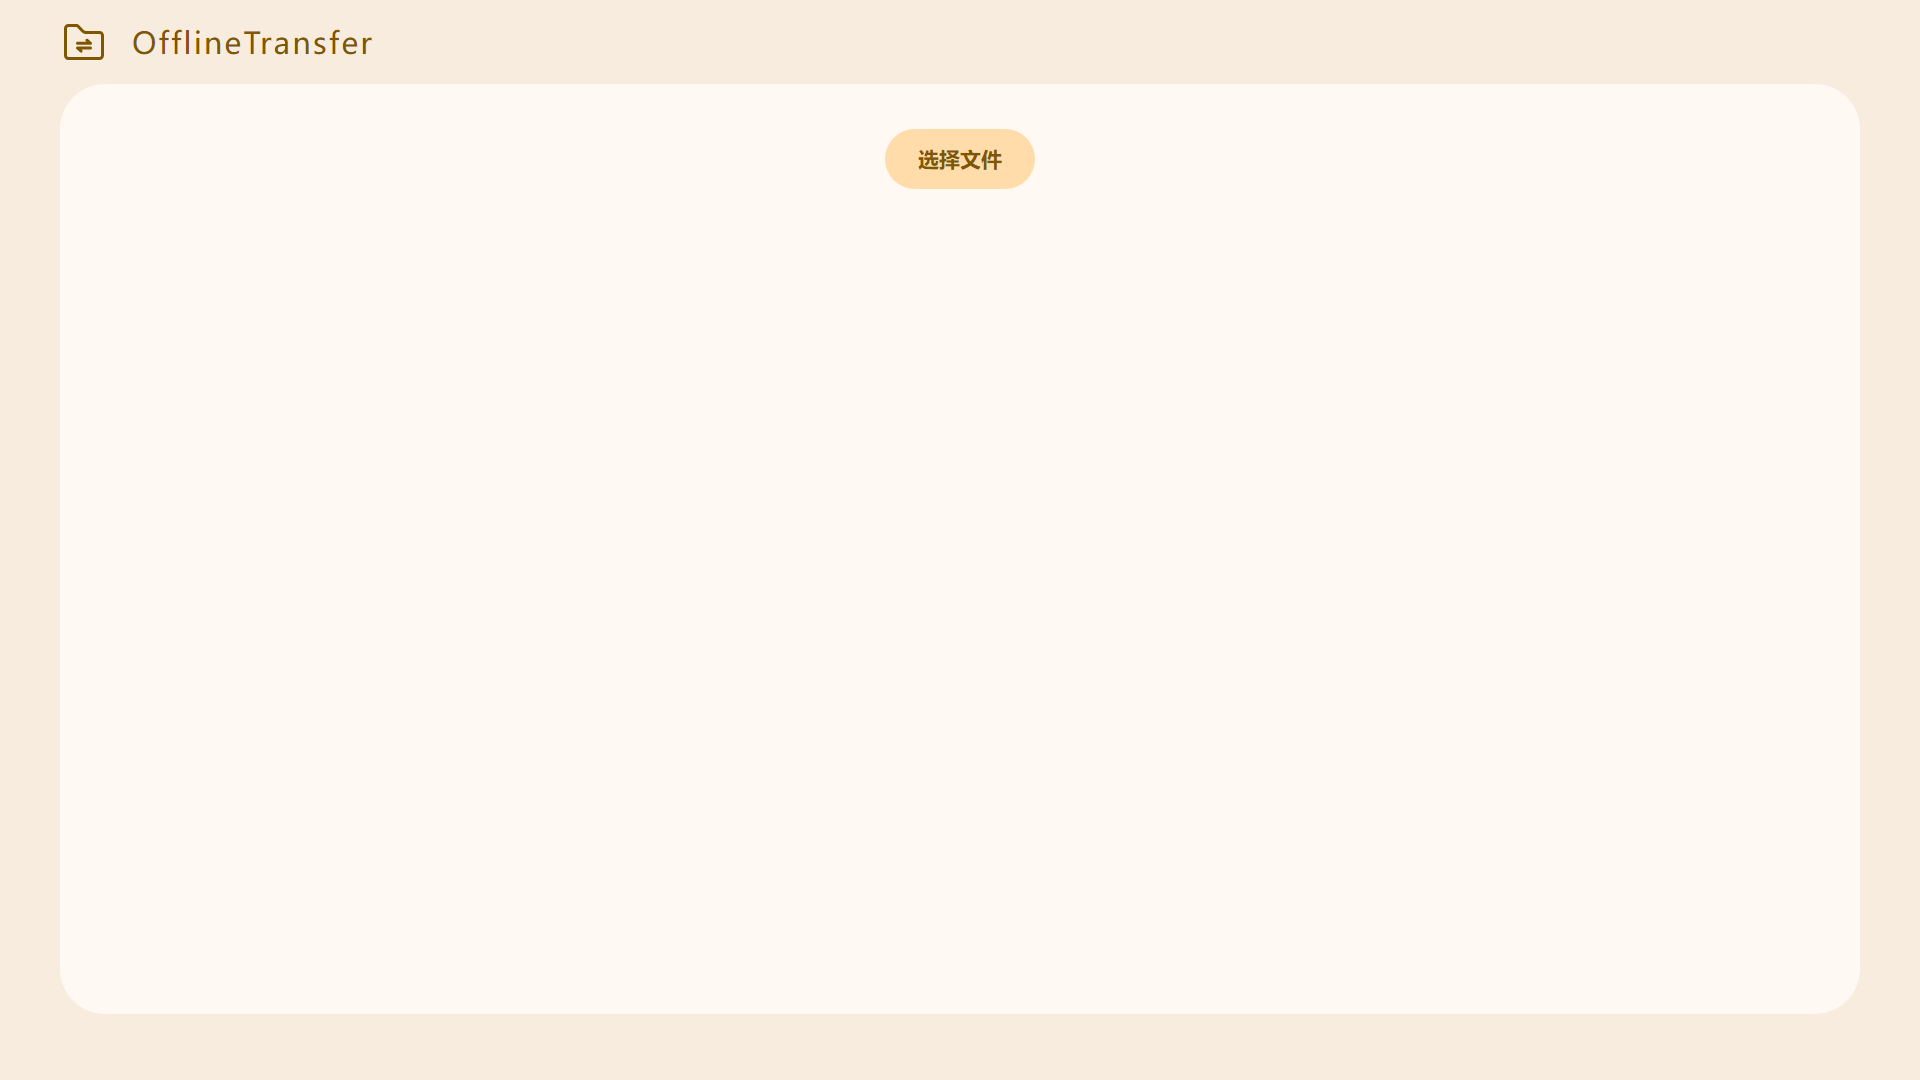
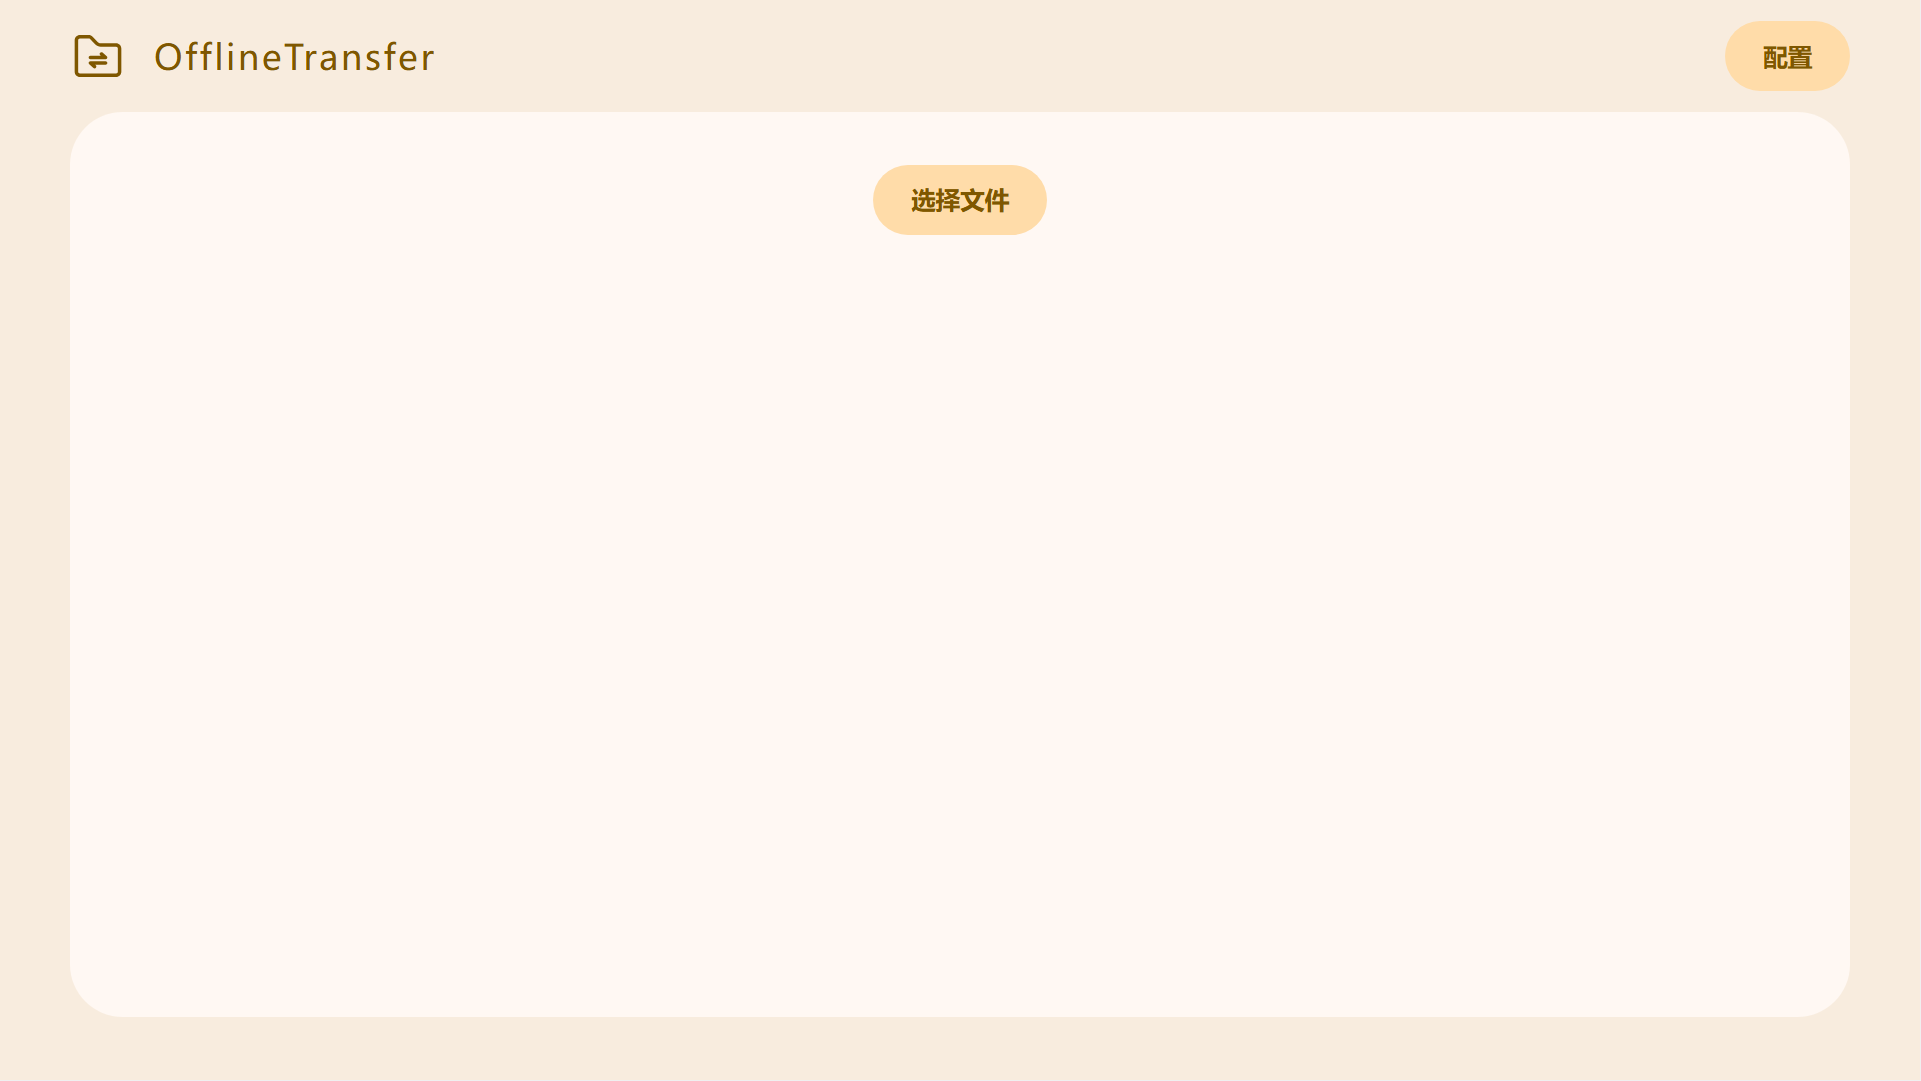
feat: 添加二维码数据大小配置功能

Changed region(s): [[0.4375, 0.1222, 0.5625, 0.2444], [0.875, 0.0, 0.9688, 0.0917], [0.0312, 0.0306, 0.2188, 0.0917]]

diff --git a/sender/css/index.css b/sender/css/index.css
@@ -13,9 +13,13 @@
     user-select: none
 }
 
+::-webkit-scrollbar{
+    display: none;
+}
+
 body {
     background-color: #f8ecde;
-    padding: 0 40px
+    padding: 0 40px 40px;
 }
 
 header {
@@ -33,17 +37,17 @@ header p {
     text-decoration: none
 }
 
+header button {
+    margin-left: auto;
+}
+
 main {
     display: flex;
     flex-direction: column;
-    height: calc(100vh - 100px);
+    min-height: calc(100vh - 100px);
     background-color: #fff8f3;
     border-radius: 30px;
     padding: 20px
-}
-
-footer {
-    height: 44px
 }
 
 .ipt_box {
@@ -88,7 +92,8 @@ button:active {
     border-radius: 20px
 }
 
-.file_info, .file_info b {
+.file_info,
+.file_info b {
     color: #7f5700
 }
 
@@ -112,7 +117,8 @@ button:active {
     flex: 1
 }
 
-.control_box, .result_box {
+.control_box,
+.result_box {
     align-items: center;
     justify-content: center
 }
@@ -121,6 +127,7 @@ button:active {
     display: flex;
     display: none;
     gap: 16px;
+    margin-top: 20px;
     transition: all .2s
 }
 
@@ -138,4 +145,65 @@ button:active {
 
 .control_box .runder {
     display: none
+}
+
+dialog#config {
+    width: 400px;
+    margin: auto;
+    padding: 20px;
+    border-radius: 28px;
+    background: #fff8f3;
+    outline: 0;
+    border: 0;
+}
+
+#config .title {
+    text-align: center;
+    font-size: 20px;
+    margin-bottom: 20px;
+    color: #7f5700;
+}
+
+.config_box .item {
+    display: flex;
+    align-items: center;
+    justify-content: space-between;
+    gap: 10px;
+    margin-bottom: 10px;
+}
+
+.config_box .item .lable {
+    width: 70px;
+    font-size: 16px;
+    color: #7f5700;
+    line-height: 1.5;
+}
+
+.config_box .item select,
+.config_box .item input {
+    flex: 1;
+    height: 40px;
+    border: 0;
+    outline: 0;
+    background: #ffdca9;
+    border-radius: 20px;
+    padding: 0 20px;
+    line-height: 40px;
+    color: #7f5700;
+    font-size: 16px;
+    transition: all .2s;
+    letter-spacing: .1em;
+}
+
+input[type="number"]::-webkit-outer-spin-button,
+input[type="number"]::-webkit-inner-spin-button {
+    -webkit-appearance: none;
+    margin: 0;
+}
+
+.config_foot {
+    display: flex;
+    justify-content: center;
+    gap: 20px;
+    margin-top: 20px;
 }

diff --git a/sender/js/index.js b/sender/js/index.js
@@ -10,8 +10,16 @@ let controlBox_P_Rander = document.querySelector(".control_box p.runder");
 let prevBtn = document.querySelector(".prev");
 let nextBtn = document.querySelector(".next");
 
+let configBtn = document.querySelector("header .config");
+let configDialog = document.querySelector("dialog#config");
+let cancelBtn = document.querySelector("dialog#config .cancel");
+let saveBtn = document.querySelector("dialog#config .save");
+let elSize = document.querySelector(".config_box .item input#size");
+
+
 let QrIndex = 0;
 let AllIndex = 0;
+let QrCodeDataSize = localStorage.getItem('QrCodeDataSize') ? localStorage.getItem('QrCodeDataSize') : 1300;
 
 
 uoloadBtn.addEventListener("click", () => {
@@ -38,7 +46,8 @@ transBtn.addEventListener("click", () => {
     reader.onload = function () {
         let data = `${JSON.stringify({ name: file.name, type: file.type })}|` + reader.result;
         controlBox.style.display = "flex";
-        let dataArr = data.match(/.{1,1300}/g);
+        let reg = `.{1,${QrCodeDataSize}}`
+        let dataArr = data.match(new RegExp(reg, "g"));
         QrIndex = 0;
         AllIndex = dataArr.length;
         ChangeView();
@@ -102,10 +111,30 @@ window.addEventListener("keydown", (e) => {
     }
 })
 
+configBtn.addEventListener("click", () => {
+    configDialog.showModal()
+    elSize.value = QrCodeDataSize
+})
+
+cancelBtn.addEventListener("click", () => {
+    configDialog.close()
+})
+
+saveBtn.addEventListener("click", () => {
+    if (elSize.value < 500 || elSize.value > 2900) {
+        return alert('数据过大会导致生成二维码失败，建议设置500-2900')
+    }
+    QrCodeDataSize = elSize.value
+    localStorage.setItem('QrCodeDataSize', QrCodeDataSize)
+    configDialog.close()
+})
+
 async function DrawQrcode(str) {
     return await QRCode.toDataURL(str, {
         errorCorrectionLevel: "L",
         margin: 4,
         scale: 5
+    }).catch(err => {
+        console.log(err)
     })
 }

diff --git a/sender/html/index.html b/sender/html/index.html
@@ -18,6 +18,7 @@
     <header>
         <img src="../public/icon.svg" alt="HugStars" width="32" height="32" />
         <p>OfflineTransfer</p>
+        <button class="config">配置</button>
     </header>
     <main>
         <div class="ipt_box">
@@ -34,6 +35,20 @@
             <button class="next">下一张</button>
         </div>
     </main>
+    <dialog id="config">
+        <p class="title">二维码配置</p>
+        <div class="config_box">
+            <div class="item">
+                <div class="lable">数据大小</div>
+                <input type="number" name="size" id="size"></input>
+            </div>
+        </div>
+        <div class="config_foot">
+            <button class="cancel">取消</button>
+            <button class="save">保存</button>
+        </div>
+
+    </dialog>
     <footer></footer>
     <script src="../js/index.js"></script>
 </body>

diff --git a/README.md b/README.md
@@ -18,6 +18,7 @@
 - 使用前需要先将文件复制到被网络隔离的设备上。
 - 项目支持了浏览器的扩展，可以[以浏览器插件的方式安装发送端](./doc/%E6%B7%BB%E5%8A%A0%E6%89%A9%E5%B1%95.png)
 - 或者直接用浏览器打开 `Sender\html\index.html` 文件也可以使用。
+- 支持配置二维码的数据大小：500到2900，默认配置为1300（单张图片大约可传输1K数据）。
 
 ### 2. 接收端
 
